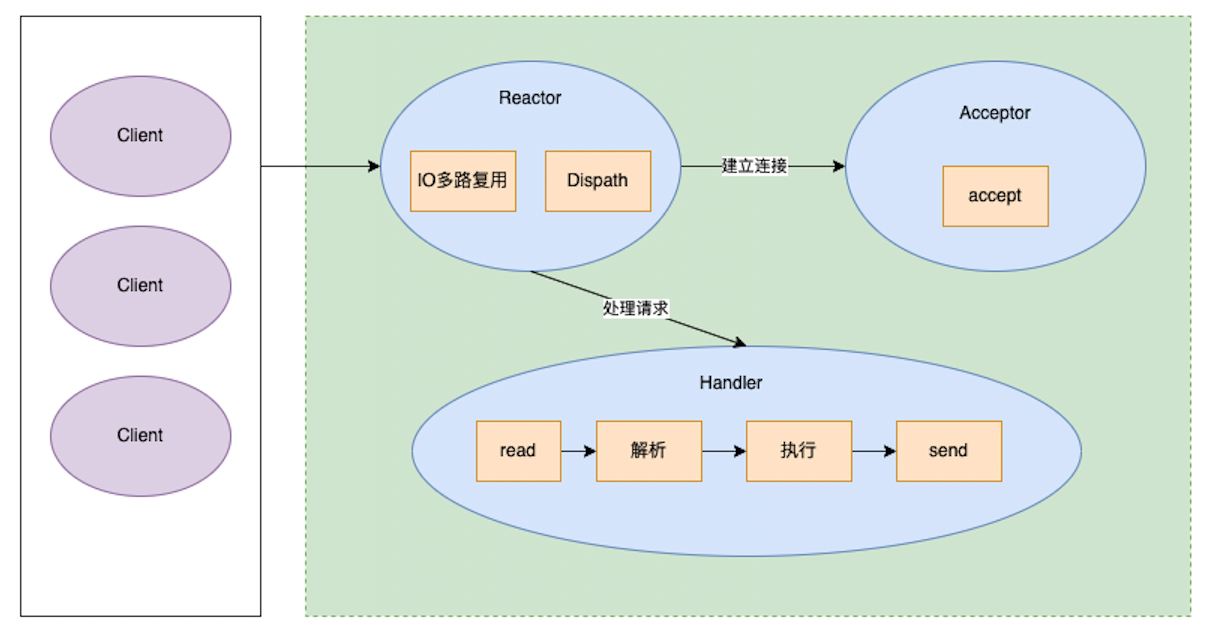
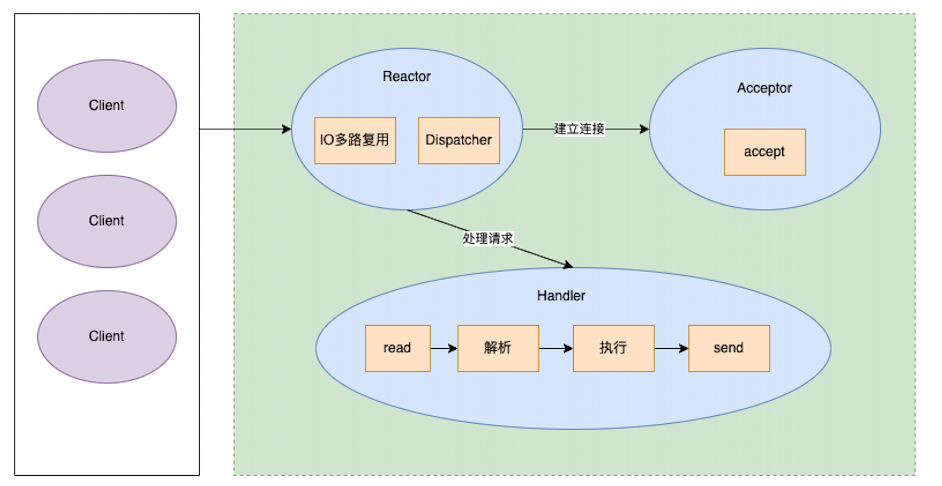
all

diff --git a/post/redis/multithreading/index.html b/post/redis/multithreading/index.html
@@ -16,7 +16,7 @@
 <meta name="apple-mobile-web-app-status-bar-style" content="#f8f5ec">
 
 
-<meta name="author" content="码农在新加坡" /><meta name="description" content="背景 Redis是什么 Redis是一个基于BSD开源的项目，是一个把结构化的数据放在内存中的一个存储系统。 你可以把它作为数据库，缓存和消息中间" /><meta name="keywords" content="Redis" />
+<meta name="author" content="码农在新加坡" /><meta name="description" content="Redis基础 Redis是什么 Redis是一个基于BSD开源的项目，是一个把结构化的数据放在内存中的一个存储系统。 你可以把它作为数据库，缓存" /><meta name="keywords" content="Redis" />
 
 
 <meta name="baidu-site-verification" content="code-swx03nFBNS" />
@@ -44,19 +44,19 @@
 
 
 <meta property="og:title" content="一文看懂Redis 6.0多线程IO" />
-<meta property="og:description" content="背景 Redis是什么 Redis是一个基于BSD开源的项目，是一个把结构化的数据放在内存中的一个存储系统。 你可以把它作为数据库，缓存和消息中间" />
+<meta property="og:description" content="Redis基础 Redis是什么 Redis是一个基于BSD开源的项目，是一个把结构化的数据放在内存中的一个存储系统。 你可以把它作为数据库，缓存" />
 <meta property="og:type" content="article" />
 <meta property="og:url" content="https://left-pocket.github.io/post/redis/multithreading/" /><meta property="article:section" content="post" />
 <meta property="article:published_time" content="2021-12-09T00:00:51+08:00" />
 <meta property="article:modified_time" content="2021-12-09T00:00:51+08:00" />
 
 <meta itemprop="name" content="一文看懂Redis 6.0多线程IO">
-<meta itemprop="description" content="背景 Redis是什么 Redis是一个基于BSD开源的项目，是一个把结构化的数据放在内存中的一个存储系统。 你可以把它作为数据库，缓存和消息中间"><meta itemprop="datePublished" content="2021-12-09T00:00:51+08:00" />
+<meta itemprop="description" content="Redis基础 Redis是什么 Redis是一个基于BSD开源的项目，是一个把结构化的数据放在内存中的一个存储系统。 你可以把它作为数据库，缓存"><meta itemprop="datePublished" content="2021-12-09T00:00:51+08:00" />
 <meta itemprop="dateModified" content="2021-12-09T00:00:51+08:00" />
-<meta itemprop="wordCount" content="3194">
+<meta itemprop="wordCount" content="3396">
 <meta itemprop="keywords" content="Redis," /><meta name="twitter:card" content="summary"/>
 <meta name="twitter:title" content="一文看懂Redis 6.0多线程IO"/>
-<meta name="twitter:description" content="背景 Redis是什么 Redis是一个基于BSD开源的项目，是一个把结构化的数据放在内存中的一个存储系统。 你可以把它作为数据库，缓存和消息中间"/>
+<meta name="twitter:description" content="Redis基础 Redis是什么 Redis是一个基于BSD开源的项目，是一个把结构化的数据放在内存中的一个存储系统。 你可以把它作为数据库，缓存"/>
 
 <!--[if lte IE 9]>
   <script src="https://cdnjs.cloudflare.com/ajax/libs/classlist/1.1.20170427/classList.min.js"></script>
@@ -136,7 +136,7 @@
         <div class="post-category">
             <a href="/categories/redis/"> Redis </a>
             </div>
-          <span class="more-meta"> 约 3194 字 </span>
+          <span class="more-meta"> 约 3396 字 </span>
           <span class="more-meta"> 预计阅读 7 分钟 </span>
         <span id="busuanzi_container_page_pv" class="more-meta"> <span id="busuanzi_value_page_pv"><img src="/img/spinner.svg" alt="spinner.svg"/></span> 次阅读 </span>
       </div>
@@ -147,7 +147,7 @@
   <div class="post-toc-content always-active">
     <nav id="TableOfContents">
   <ul>
-    <li><a href="#背景">背景</a>
+    <li><a href="#redis基础">Redis基础</a>
       <ul>
         <li>
           <ul>
@@ -155,18 +155,28 @@
             <li><a href="#为什么用redis">为什么用Redis</a></li>
             <li><a href="#redis为什么快">Redis为什么快</a></li>
             <li><a href="#redis是单线程的吗">Redis是单线程的吗</a></li>
+            <li><a href="#redis网络模型">Redis网络模型</a></li>
           </ul>
         </li>
       </ul>
     </li>
-    <li><a href="#redis单线程模型">Redis单线程模型</a></li>
     <li><a href="#reactor模型">Reactor模型</a>
       <ul>
         <li>
           <ul>
             <li><a href="#单线程reactor模型">单线程Reactor模型</a></li>
             <li><a href="#master-worker-reactor模型">Master-Worker Reactor模型</a></li>
-            <li><a href="#redis-60的reactor模型">Redis 6.0的Reactor模型</a></li>
+          </ul>
+        </li>
+      </ul>
+    </li>
+    <li><a href="#redis-60的reactor模型">Redis 6.0的Reactor模型</a>
+      <ul>
+        <li>
+          <ul>
+            <li><a href="#为什么redis-60-要使用多线程">为什么Redis 6.0 要使用多线程</a></li>
+            <li><a href="#redis-60-网络模型">Redis 6.0 网络模型</a></li>
+            <li><a href="#redis-60和memcached多线程模型对比">Redis 6.0和Memcached多线程模型对比</a></li>
           </ul>
         </li>
       </ul>
@@ -177,7 +187,7 @@
   </div>
 </div>
     <div class="post-content">
-      <h1 id="背景">背景</h1>
+      <h1 id="redis基础">Redis基础</h1>
 <h3 id="redis是什么">Redis是什么</h3>
 <p>Redis是一个基于BSD开源的项目，是一个把结构化的数据放在内存中的一个存储系统。</p>
 <p>你可以把它作为数据库，缓存和消息中间件来使用。同时支持<code>strings</code>，<code>lists</code>，<code>hashes</code>，<code>sets</code>，<code>sorted sets</code>，<code>bitmaps</code>，<code>hyperloglogs</code>和<code>geospatial indexes</code>等数据类型。</p>
@@ -211,10 +221,11 @@
 但是整个网络模型依然是单线程的，所以我们称之为单线程。</p>
 </li>
 <li>
-<p><code>Redis 6.0</code> 就真正的在网络模型上加入<code>多线程IO</code>来解决网络IO的性能瓶颈。</p>
+<p><code>Redis 6.0</code> 就真正的在网络模型上加入<code>多线程IO</code>来解决网络IO的性能瓶颈。
+此时IO读写是多线程的，执行命令依旧是单线程的。</p>
 </li>
 </ol>
-<h1 id="redis单线程模型">Redis单线程模型</h1>
+<h3 id="redis网络模型">Redis网络模型</h3>
 <p>一张图看懂Redis的单线程模型：</p>
 <p><img src="/img/redis/redis_io.png" alt="redis"></p>
 <p>redis的网络事件处理器是基于Reactor模式，又叫做文件事件处理器。</p>
@@ -242,12 +253,12 @@ Redis 在处理客户端的请求时，包括<code>接收</code>(socket读)、<c
 </ul>
 <p>缺点：</p>
 <ul>
-<li>仅用一个线程处理请求，对于多核资源机器来说是有点浪费的</li>
+<li>仅用一个线程处理请求，对于多核资源机器来说是有点浪费的。</li>
 <li>当处理读写任务的线程负载比较重，将会阻塞后续的事件处理，导致整体延迟变大。</li>
 </ul>
 <p>应用：</p>
 <ul>
-<li>Redis线程模型。（6.0以前）</li>
+<li>Redis网络模型。（6.0版本以前）</li>
 </ul>
 <h3 id="master-worker-reactor模型">Master-Worker Reactor模型</h3>
 <p><img src="/img/redis/reactor2.png" alt="redis"></p>
@@ -265,33 +276,45 @@ Redis 在处理客户端的请求时，包括<code>接收</code>(socket读)、<c
 </ul>
 <p>缺点：</p>
 <ul>
-<li>增加了复杂度，如果多个subReactor操作同一份数据，可能有线程安全的问题。</li>
+<li>如果多个线程可能操作同一份数据，就涉及到底层数据同步的问题，则必然会引入某些同步机制，比如锁。增加了代码复杂度，同时增加了同步机制的开销。</li>
 </ul>
 <p>应用：</p>
 <ul>
-<li>Nginx, netty, Swoole, Memcached就是使用的这个模型</li>
+<li>Nginx, Netty, Swoole, Memcached就是使用的这个模型</li>
 </ul>
-<h3 id="redis-60的reactor模型">Redis 6.0的Reactor模型</h3>
-<p>6.0 版本之后，Redis 正式在核心网络模型中引入了多线程，也就是所谓的 <code>I/O threading</code>，至此 Redis 真正拥有了多线程模型。
-但是Redis的多线程模型却，并非标准的<code>Master-Worker Reactor</code>模型。他的多线程 <strong>只负责IO读写，不负责具体的执行。</strong></p>
-<p>为什么Redis 6.0 要使用多线程呢？<br>
-之前说了，CPU不是Redis的瓶颈，Redis的瓶颈最有可能是机器内存大小和网络带宽。
-从Redis自身角度来说，因为读写网络的<code>read/write</code>系统调用占用了Redis执行期间大部分CPU时间，瓶颈主要在于网络的 IO 消耗, 所以选择多线程IO来实现读写。主线程来执行Redis命令。<br>
-其实就是：将主线程 IO 读写任务拆分出来给一组独立的线程处理，使得多个 socket 读写可以并行化，但是 Redis 命令还是主线程串行执行。</p>
+<h1 id="redis-60的reactor模型">Redis 6.0的Reactor模型</h1>
+<p>Redis 6.0版本之后，Redis 正式在核心网络模型中引入了多线程，也就是所谓的 <code>I/O threading</code>，至此 Redis 真正拥有了多线程模型。
+但是Redis的多线程模型却并非标准的<code>Master-Worker Reactor</code>模型。他的多线程 <strong>只负责IO读写，不负责具体的执行。</strong></p>
+<h3 id="为什么redis-60-要使用多线程">为什么Redis 6.0 要使用多线程</h3>
+<p>之前说了，CPU不是Redis的瓶颈，Redis的瓶颈最有可能是机器内存大小和网络带宽。
+从Redis自身角度来说，因为读写网络的<code>read/write</code>系统调用占用了Redis执行期间大部分CPU时间，瓶颈主要在于网络的 IO 消耗, 所以选择多线程IO来实现读写。主线程来执行Redis命令。</p>
+<p><strong>总结就是：</strong><br>
+将主线程 IO 读写任务拆分出来给一组独立的线程处理，使得多个 socket 读写可以并行化，但是 Redis 命令还是主线程串行执行。</p>
+<h3 id="redis-60-网络模型">Redis 6.0 网络模型</h3>
 <p><img src="/img/redis/reactor3.png" alt="redis"></p>
 <p><strong>为什么这么设计呢？</strong></p>
+<ol>
+<li>前面提到 Redis 最初选择单线程网络模型的理由是：CPU 通常不会成为性能瓶颈，瓶颈往往是内存和网络，因此单线程足够了。那么为什么现在 Redis 又要引入多线程呢？很简单，就是 Redis 的<code>网络 I/O 瓶颈</code>已经越来越明显了。所以这个多线程是为了<code>解决IO的瓶颈</code>的。</li>
+<li>如果多线程包括了<code>IO读写，解析和执行</code>的整个过程，那么多线程需要面临线程安全的问题，Redis 6.0版本之前是没有考虑线程安全的，如果使用多线程来处理命令的执行，需要大量的改动来保证多线程的安全机制，实现更复杂。为了避免了不必要的上下文切换和竞争条件，多线程导致的切换而消耗 CPU，也不用考虑各种锁的问题，就让执行这一步只使用主线程。</li>
+</ol>
+<h3 id="redis-60和memcached多线程模型对比">Redis 6.0和Memcached多线程模型对比</h3>
+<p>相同点：</p>
 <ul>
-<li>前面提到 Redis 最初选择单线程网络模型的理由是：CPU 通常不会成为性能瓶颈，瓶颈往往是内存和网络，因此单线程足够了。那么为什么现在 Redis 又要引入多线程呢？很简单，就是 Redis 的网络 I/O 瓶颈已经越来越明显了。所以这个多线程是为了解决IO的瓶颈的。</li>
-<li>第二个原因就是，如果多线程包括了解析和执行的整个过程，那么多线程需要面临线程安全的问题，Redis 6.0版本之前是没有考虑线程安全的，如果使用多线程来处理命令的执行，需要大量的改动来保证多线程的安全机制，实现更复杂。为了避免了不必要的上下文切换和竞争条件，多线程导致的切换而消耗 CPU，也不用考虑各种锁的问题，就让执行这一步只使用主线程。</li>
+<li>都采用了 Master-Worker 的线程的模型</li>
+</ul>
+<p>不同点：</p>
+<ul>
+<li>Memcached 执行主逻辑也是在 Worker 线程里，模型更加简单，实现了真正的线程隔离，通过各种锁机制来保证数据的线程安全。</li>
+<li>而 Redis 把执行逻辑交还给 Master 线程，虽然一定程度上增加了模型复杂度，但也解决了数据的线程安全问题。</li>
 </ul>
 <h1 id="总结">总结</h1>
 <p>让我们来回顾一下 Redis 多线程网络模型的设计方案：</p>
 <ul>
-<li>使用 I/O 线程实现网络 I/O 多线程化，I/O 线程只负责网络 I/O 和命令解析，不执行客户端命令。</li>
+<li>使用 I/O 线程实现网络 I/O 多线程化，I/O 线程只负责网络 I/O 和命令解析，不执行具体的命令。</li>
 </ul>
 <p>Redis 的多线程网络模型实际上并不是一个标准的 <code>Master-Workers Reactor</code> 模型，Redis 的多线程方案中，I/O 线程任务仅仅是通过 socket 读取客户端请求命令并解析，却没有真正去执行命令。</p>
-<p>所有客户端命令最后还需要回到主线程去执行，因此对多核的利用率并不算高，而且每次主线程都必须在分配完任务之后忙轮询等待所有 I/O 线程完成任务之后才能继续执行其他逻辑。</p>
-<p>在我看来，Redis 目前的多线程方案更像是一个折中的选择：既保持了原系统的兼容性，又能利用多核提升 I/O 性能。</p>
+<p>所有客户端命令最后还需要回到<code>主线程去执行</code>，因此对多核的利用率并不算高，而且每次主线程都必须在分配完任务之后忙轮询等待所有 I/O 线程完成任务之后才能继续执行其他逻辑。</p>
+<p>Redis 目前的多线程方案更像是一个折中的选择：既保持了原系统的兼容性，又能利用多核提升 I/O 性能，来解决网络IO的性能瓶颈。</p>
 <p>&lt;全文完&gt;</p>
 <p>欢迎关注我的微信公众号：<strong>码农在新加坡</strong>，有更多好的技术分享。
 <img src="/img/personal/qrcode_2.png" alt="pic"></p>

diff --git a/index.html b/index.html
@@ -132,14 +132,14 @@
       <div class="post-category">
           <a href="/categories/redis/"> Redis </a>
           </div>
-        <span class="more-meta"> 约 3194 字 </span>
+        <span class="more-meta"> 约 3396 字 </span>
         <span class="more-meta"> 预计阅读 7 分钟 </span>
     </div>
   </header>
   
   <div class="post-content">
     <div class="post-summary">
-      背景 Redis是什么 Redis是一个基于BSD开源的项目，是一个把结构化的数据放在内存中的一个存储系统。 你可以把它作为数据库，缓存和消息中间
+      Redis基础 Redis是什么 Redis是一个基于BSD开源的项目，是一个把结构化的数据放在内存中的一个存储系统。 你可以把它作为数据库，缓存
     </div>
     <div class="read-more">
       <a href="/post/redis/multithreading/" class="read-more-link">阅读更多</a>
